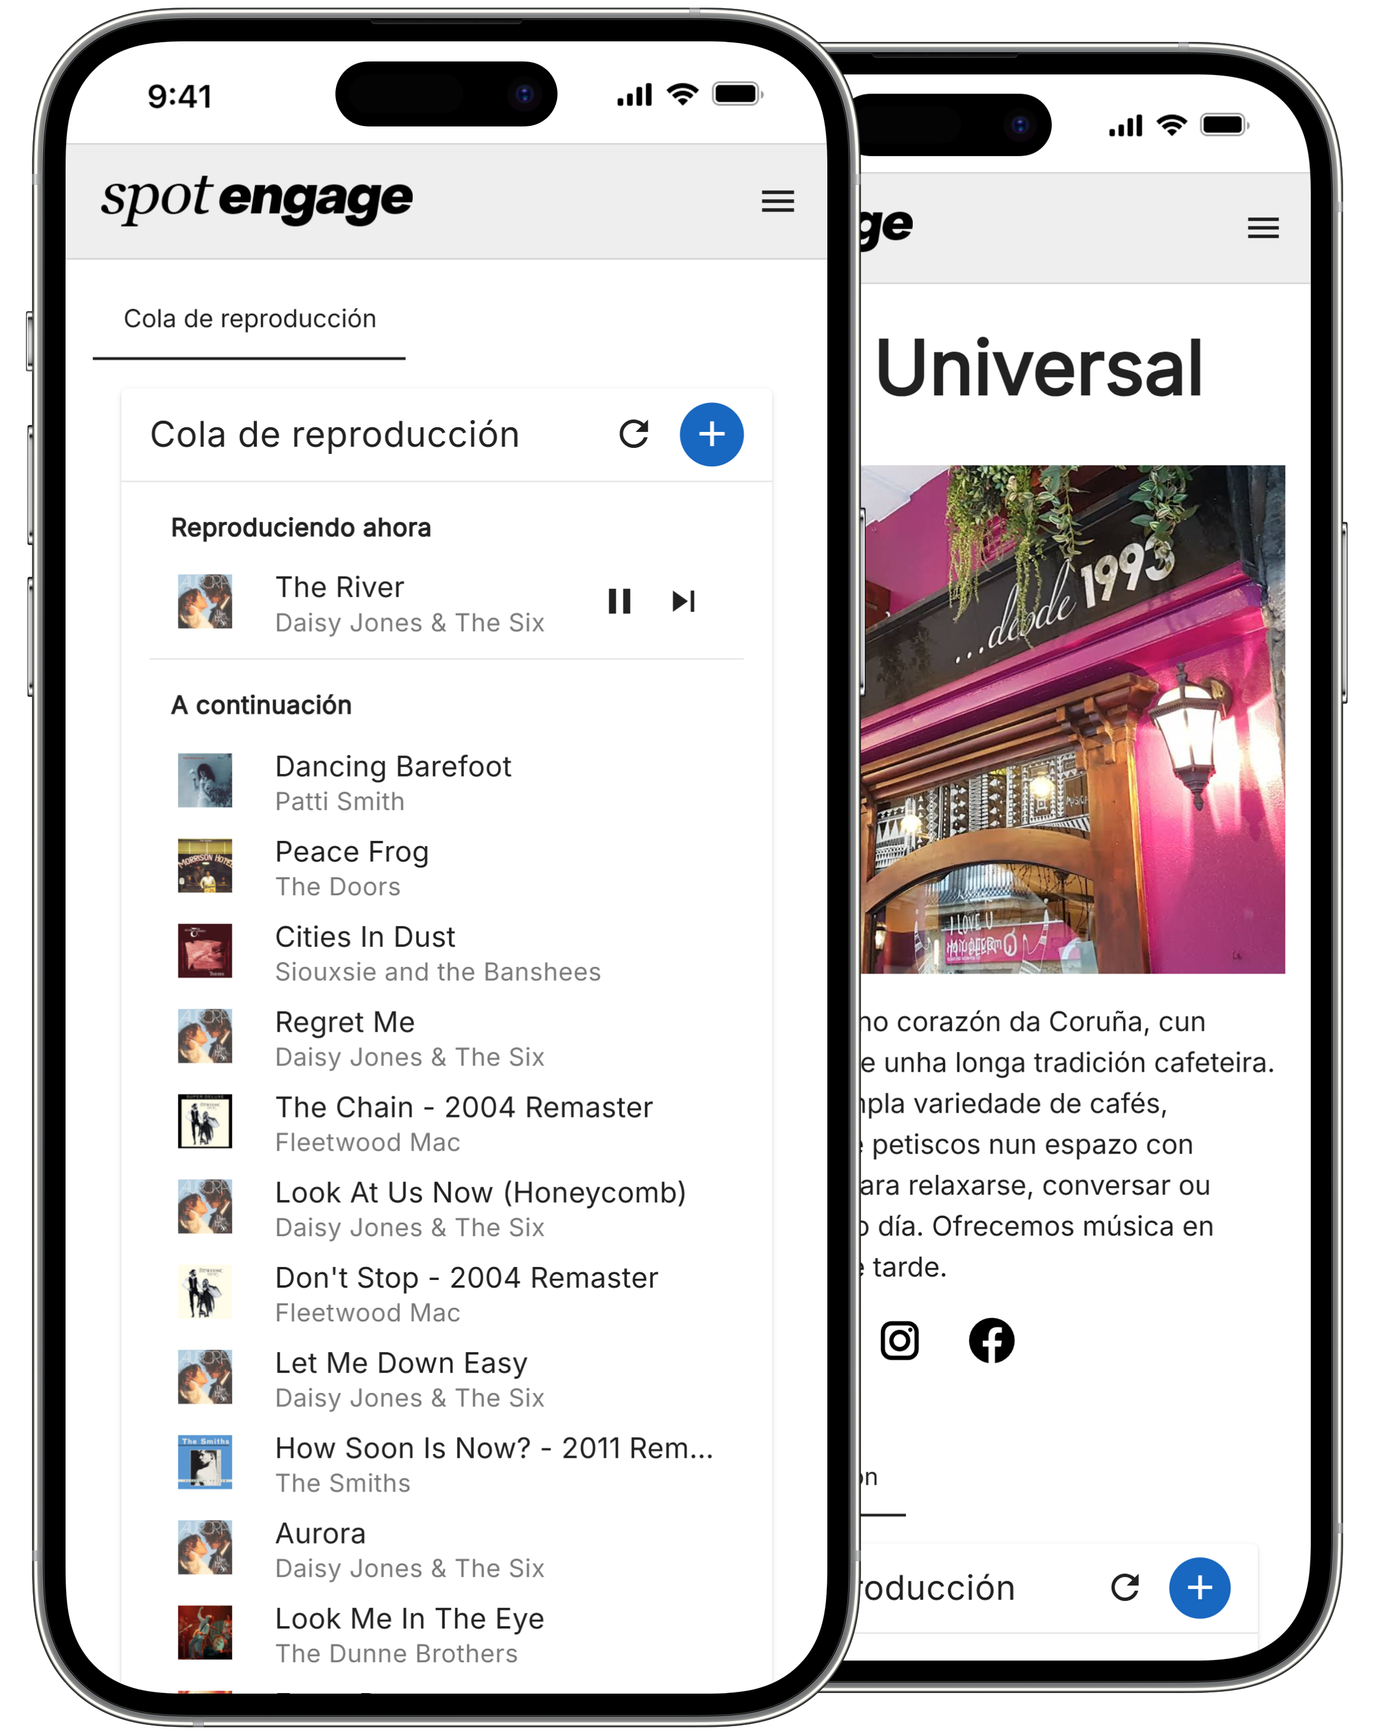
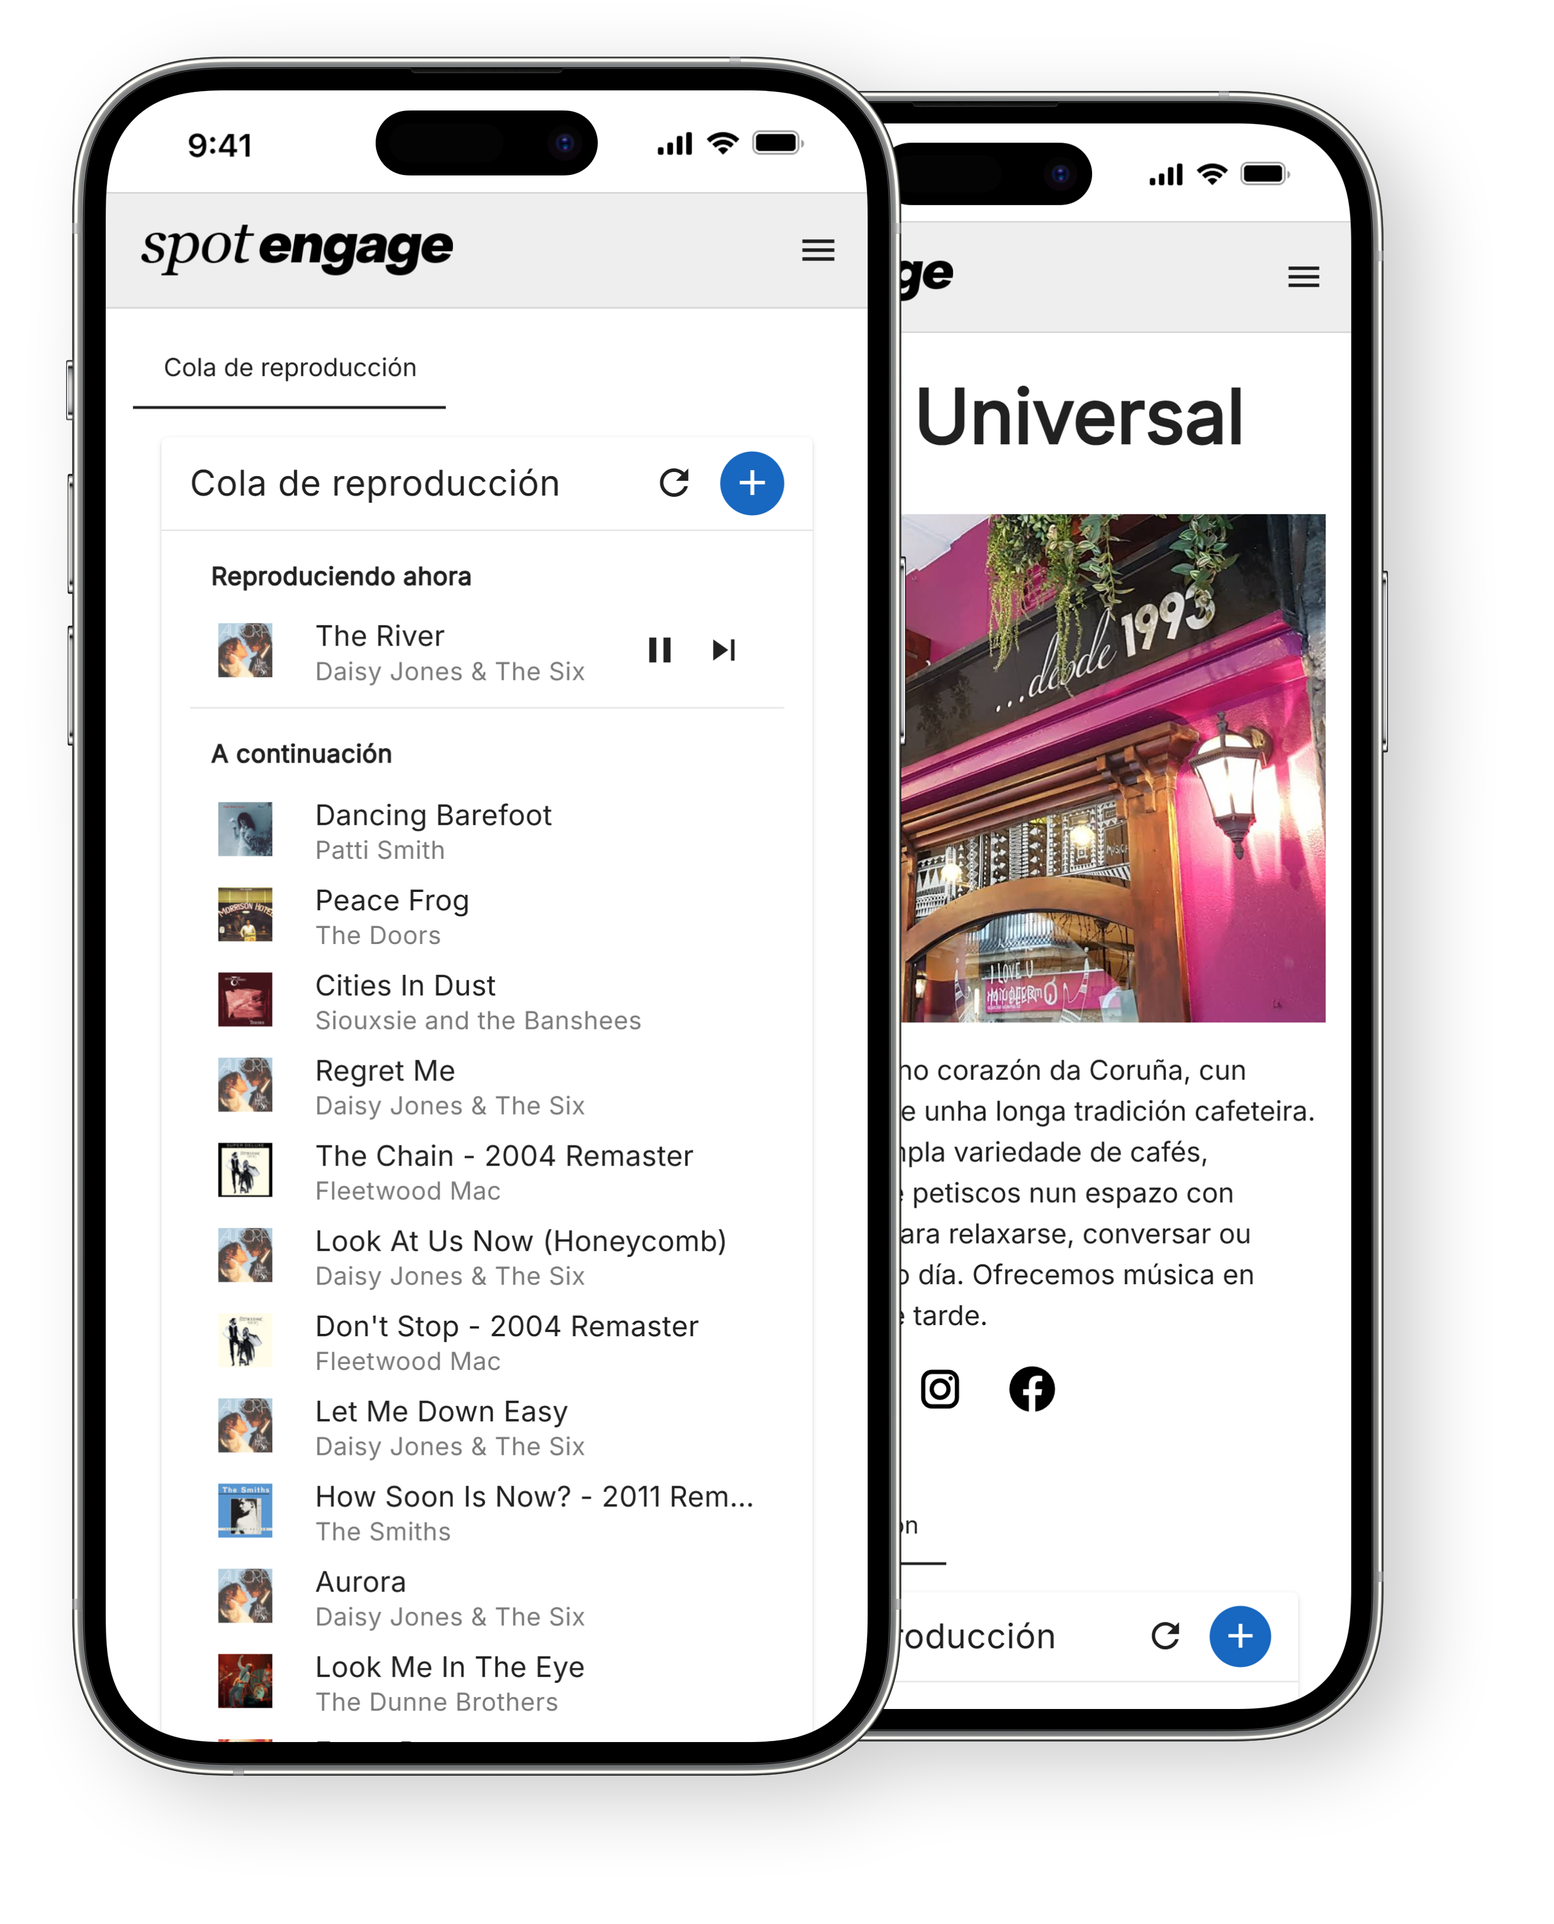
Modified appearance

diff --git a/pages/venues.vue b/pages/venues.vue
@@ -1,25 +1,31 @@
 <template>
   <div>
-    <div>
+    <div class="gradient-section">
       <v-container>
         <v-row align="center" class="my-5">
-          <v-col cols="12" sm="8">
-            <h2>{{ $t("venues.title1") }}</h2>
+          <v-col cols="12" md="6">
+            <h1>{{ $t("venues.title1") }}</h1>
+            <br />
             <h3 class="font-weight-regular">
               {{ $t("venues.description1", { appName: $t("appName") }) }}
             </h3>
           </v-col>
-          <v-col cols="12" sm="4">
+          <v-col cols="12" md="6">
             <v-img src="/images/iphone-mockup.png" alt="Phone Mockup" />
           </v-col>
         </v-row>
       </v-container>
     </div>
-    <div class="dark-section">
+    <div class="dark-section dark-gradient-section">
       <v-container>
+        <v-row class="text-center mt-5">
+          <v-col>
+            <h1>{{ $t("venues.title2") }}</h1>
+          </v-col>
+        </v-row>
         <v-row align="center" class="my-5">
-          <v-col cols="12" sm="7">
-            <v-carousel hide-delimiter-background>
+          <v-col cols="12" md="7">
+            <v-carousel hide-delimiter-background height="400">
               <v-carousel-item
                 v-for="(item, i) in items"
                 :key="i"
@@ -38,9 +44,7 @@
               </v-carousel-item>
             </v-carousel>
           </v-col>
-          <v-col cols="12" sm="5">
-            <h2>{{ $t("venues.title2") }}</h2>
-            <br />
+          <v-col cols="12" md="5">
             <h3 class="font-weight-regular">
               {{ $t("venues.description2", { appName: $t("appName") }) }}
             </h3>
@@ -56,7 +60,8 @@
       <v-container>
         <v-row class="text-center my-5">
           <v-col>
-            <h2>{{ $t("venues.title3") }}</h2>
+            <h1>{{ $t("venues.title3") }}</h1>
+            <br />
             <h3 class="font-weight-regular">
               {{ $t("venues.description3") }}
             </h3>
@@ -68,16 +73,34 @@
             />
             <v-row class="mt-8">
               <v-col>
-                <v-icon :size="80" class="mb-2">campaign</v-icon>
-                <h4 class="font-weight-regular">{{ $t("venues.feature1") }}</h4>
+                <v-card variant="outlined">
+                  <v-container>
+                    <v-icon :size="50" class="mb-4">
+                      <svg xmlns="http://www.w3.org/2000/svg" fill="none" viewBox="0 0 256 256" id="Export-Duotone--Streamline-Phosphor"><desc>Export Duotone Streamline Icon: https://streamlinehq.com</desc><g id="export-duotone"><path id="Vector" fill="#c4c4c3" d="M224.4894 108.7059v135.0852H31.5106V108.7059h192.9788Z" stroke-width="1"></path><path id="Vector_2" fill="#000000" d="M234.1383 118.3549v115.7872c0 5.1176 -2.0335 10.0265 -5.6518 13.646 -3.6196 3.6184 -8.5285 5.6519 -13.6461 5.6519H41.1596c-5.1182 0 -10.0266 -2.0335 -13.6457 -5.6519 -3.6191 -3.6195 -5.6522 -8.5284 -5.6522 -13.646V118.3549c0 -5.1176 2.0331 -10.0265 5.6522 -13.646 3.6191 -3.6188 8.5275 -5.6519 13.6457 -5.6519h28.9468c2.559 0 5.0133 1.0166 6.8229 2.8262 1.8094 1.8094 2.826 4.2633 2.826 6.8227s-1.0166 5.0139 -2.826 6.823c-1.8096 1.8092 -4.2639 2.826 -6.8229 2.826H41.1596v115.7872h173.6808V118.3549h-28.9468c-2.5594 0 -5.0138 -1.0168 -6.823 -2.826s-2.8259 -4.2636 -2.8259 -6.823 1.0168 -5.0133 2.8259 -6.8227c1.8092 -1.8096 4.2637 -2.8262 6.823 -2.8262h28.9469c5.1175 0 10.0264 2.0331 13.646 5.6519 3.6183 3.6195 5.6518 8.5284 5.6518 13.646ZM86.5819 67.2879l31.7692 -31.7812v111.795c0 2.5594 1.0167 5.0138 2.8259 6.823s4.2636 2.8259 6.823 2.8259 5.0138 -1.0167 6.823 -2.8259 2.8259 -4.2636 2.8259 -6.823V35.5067l31.7692 31.7812c1.8103 1.8105 4.266 2.8277 6.8266 2.8277s5.0162 -1.0172 6.8266 -2.8277c1.8104 -1.8105 2.8271 -4.2662 2.8271 -6.8267s-1.0167 -5.0161 -2.8271 -6.8266L134.8266 5.3899c-0.8961 -0.8971 -1.9599 -1.6088 -3.1311 -2.0944 -1.1723 -0.4856 -2.4279 -0.7355 -3.6955 -0.7355 -1.2676 0 -2.5232 0.2499 -3.6955 0.7355 -1.1712 0.4856 -2.235 1.1973 -3.1311 2.0944L72.9287 53.6346c-1.8105 1.8105 -2.8276 4.2662 -2.8276 6.8266s1.0171 5.0162 2.8276 6.8267c1.8105 1.8105 4.2661 2.8277 6.8266 2.8277s5.0161 -1.0172 6.8266 -2.8277Z" stroke-width="1"></path></g></svg>
+                    </v-icon>
+                    <h4 class="font-weight-regular">{{ $t("venues.feature1") }}</h4>
+                  </v-container>
+                </v-card>
               </v-col>
               <v-col>
-                <v-icon :size="80" class="mb-2">playlist_add</v-icon>
-                <h4 class="font-weight-regular">{{ $t("venues.feature2") }}</h4>
+                <v-card variant="outlined">
+                  <v-container>
+                    <v-icon :size="50" class="mb-4">
+                      <svg xmlns="http://www.w3.org/2000/svg" fill="none" viewBox="0 0 256 256" id="Playlist-Duotone--Streamline-Phosphor"><desc>Playlist Duotone Streamline Icon: https://streamlinehq.com</desc><g id="playlist-duotone"><path id="Vector" fill="#c4c4c3" d="M200 192c0 4.747 -1.408 9.387 -4.045 13.334 -2.637 3.946 -6.385 7.023 -10.771 8.839 -4.385 1.817 -9.211 2.292 -13.866 1.366 -4.656 -0.926 -8.932 -3.212 -12.289 -6.568 -3.356 -3.357 -5.642 -7.633 -6.568 -12.289 -0.926 -4.655 -0.451 -9.481 1.366 -13.866 1.816 -4.386 4.893 -8.134 8.839 -10.771C166.613 169.408 171.253 168 176 168c6.365 0 12.47 2.529 16.971 7.029C197.471 179.53 200 185.635 200 192Z" stroke-width="1"></path><path id="Vector_2" fill="#000000" d="M32 64c0 -2.1217 0.8429 -4.1566 2.3431 -5.6569C35.8434 56.8429 37.8783 56 40 56h176c2.122 0 4.157 0.8429 5.657 2.3431C223.157 59.8434 224 61.8783 224 64s-0.843 4.1566 -2.343 5.6569C220.157 71.1571 218.122 72 216 72H40c-2.1217 0 -4.1566 -0.8429 -5.6569 -2.3431C32.8429 68.1566 32 66.1217 32 64Zm8 72h120c2.122 0 4.157 -0.843 5.657 -2.343S168 130.122 168 128s-0.843 -4.157 -2.343 -5.657S162.122 120 160 120H40c-2.1217 0 -4.1566 0.843 -5.6569 2.343C32.8429 123.843 32 125.878 32 128s0.8429 4.157 2.3431 5.657C35.8434 135.157 37.8783 136 40 136Zm72 48H40c-2.1217 0 -4.1566 0.843 -5.6569 2.343C32.8429 187.843 32 189.878 32 192s0.8429 4.157 2.3431 5.657C35.8434 199.157 37.8783 200 40 200h72c2.122 0 4.157 -0.843 5.657 -2.343S120 194.122 120 192s-0.843 -4.157 -2.343 -5.657S114.122 184 112 184Zm135.66 -57.7c-0.302 1.01 -0.801 1.951 -1.468 2.768 -0.666 0.816 -1.488 1.493 -2.417 1.991 -0.93 0.499 -1.948 0.808 -2.998 0.911 -1.049 0.103 -2.109 -0.002 -3.117 -0.31L208 122.75V192c0.011 7.059 -2.308 13.924 -6.598 19.529 -4.289 5.606 -10.31 9.639 -17.126 11.472 -6.817 1.834 -14.048 1.366 -20.571 -1.331 -6.523 -2.697 -11.974 -7.472 -15.505 -13.583 -3.532 -6.112 -4.947 -13.219 -4.026 -20.217 0.921 -6.999 4.127 -13.497 9.119 -18.487 4.993 -4.99 11.493 -8.192 18.492 -9.11 6.999 -0.917 14.105 0.502 20.215 4.037V112c0 -1.247 0.292 -2.477 0.852 -3.591 0.56 -1.114 1.373 -2.082 2.374 -2.826 1.001 -0.744 2.161 -1.244 3.39 -1.46 1.228 -0.216 2.49 -0.142 3.684 0.217l40 12c2.031 0.61 3.737 2.003 4.742 3.87 1.005 1.868 1.227 4.058 0.618 6.09ZM192 192c0 -3.165 -0.938 -6.258 -2.696 -8.889 -1.759 -2.631 -4.257 -4.682 -7.181 -5.893 -2.924 -1.211 -6.141 -1.528 -9.244 -0.911 -3.104 0.618 -5.955 2.142 -8.193 4.379 -2.237 2.238 -3.761 5.089 -4.379 8.193 -0.617 3.103 -0.3 6.32 0.911 9.244 1.211 2.924 3.262 5.422 5.893 7.181 2.631 1.758 5.724 2.696 8.889 2.696 4.243 0 8.313 -1.686 11.314 -4.686 3 -3.001 4.686 -7.071 4.686 -11.314Z" stroke-width="1"></path></g></svg>
+                    </v-icon>
+                    <h4 class="font-weight-regular">{{ $t("venues.feature2") }}</h4>
+                  </v-container>
+                </v-card>
               </v-col>
               <v-col>
-                <v-icon :size="80" class="mb-2">settings</v-icon>
-                <h4 class="font-weight-regular">{{ $t("venues.feature3") }}</h4>
+                <v-card variant="outlined">
+                  <v-container>
+                    <v-icon :size="50" class="mb-4">
+                      <svg xmlns="http://www.w3.org/2000/svg" fill="none" viewBox="0 0 256 256" id="Gear-Duotone--Streamline-Phosphor"><desc>Gear Duotone Streamline Icon: https://streamlinehq.com</desc><g id="gear-duotone"><path id="Vector" fill="#c4c4c3" d="m223.7017 122.2048 20.1124 -25.1704c-2.7124 -10.1975 -6.772 -19.9882 -12.0698 -29.1138l-32.0025 -3.5958c-2.5566 -2.8803 -5.2822 -5.6059 -8.1624 -8.1624l-3.5958 -32.0144c-9.1356 -5.2663 -18.9293 -9.2968 -29.1258 -11.986l-25.1704 20.1004c-3.8487 -0.2277 -7.707 -0.2277 -11.5545 0L96.9625 12.15C86.7979 14.8708 77.04 18.9295 67.9444 24.2199l-3.5957 32.0024c-2.8804 2.5565 -5.606 5.2821 -8.1625 8.1624l-32.0144 3.5958c-5.2662 9.1356 -9.2968 18.9296 -11.9859 29.1258l20.1004 25.1705c-0.2277 3.8486 -0.2277 7.7057 0 11.5544l-20.1124 25.1704c2.7128 10.1977 6.7717 19.9878 12.0698 29.1139l32.0025 3.5957c2.5564 2.8803 5.282 5.6059 8.1624 8.1625l3.5958 32.0144c9.1355 5.2666 18.9297 9.2963 29.1259 11.9859l25.1704 -20.1004c3.8475 0.2277 7.7058 0.2277 11.5545 0l25.1704 20.1124c10.1977 -2.7124 19.9878 -6.772 29.1138 -12.0698l3.5958 -32.0025c2.8802 -2.5566 5.6058 -5.2822 8.1624 -8.1624l32.0145 -3.5958c5.2666 -9.1356 9.2963 -18.9293 11.9859 -29.1258l-20.1004 -25.1704c0.1954 -3.8499 0.1642 -7.7082 -0.0959 -11.5545Zm-95.7196 53.721c-9.4821 0 -18.752 -2.8119 -26.6363 -8.0797 -7.8843 -5.2679 -14.0293 -12.7567 -17.6581 -21.5172 -3.6287 -8.7605 -4.5781 -18.3996 -2.7282 -27.7007 1.8499 -9.2998 6.4161 -17.8422 13.1211 -24.5475 6.7054 -6.705 15.2478 -11.2712 24.5477 -13.1211 9.301 -1.8499 18.9401 -0.9005 27.7006 2.7282 8.7606 3.6288 16.2482 9.7738 21.5172 17.6579 5.2678 7.8844 8.0797 17.1543 8.0797 26.6364 0 12.7158 -5.0509 24.9103 -14.0427 33.901 -8.9907 8.9918 -21.1851 14.0427 -33.901 14.0427Z" stroke-width="1"></path><path id="Vector_2" fill="#000000" d="M127.9821 70.4496c-11.3795 0 -22.5024 3.3743 -31.9629 9.696 -9.4617 6.3218 -16.8357 15.3067 -21.1902 25.8195 -4.3546 10.5129 -5.4938 22.0805 -3.2739 33.2406 2.2199 11.1601 7.6993 21.4117 15.7453 29.4578 8.0464 8.0462 18.298 13.5261 29.4581 15.7459 11.1601 2.2198 22.7277 1.08 33.2405 -3.2745s19.4976 -11.7283 25.8201 -21.19c6.3214 -9.4605 9.6954 -20.5834 9.6954 -31.9628 -0.0155 -15.2533 -6.0828 -29.8786 -16.869 -40.6641 -10.7849 -10.786 -25.4101 -16.8525 -40.6634 -16.8684Zm0 95.8874c-7.5859 0 -15.0016 -2.2497 -21.3086 -6.464 -6.3082 -4.2142 -11.2236 -10.2048 -14.1269 -17.213 -2.903 -7.0081 -3.6625 -14.7199 -2.1826 -22.1607 1.48 -7.4397 5.1326 -14.2741 10.4975 -19.6378 5.3637 -5.3649 12.1981 -9.0175 19.6378 -10.4974 7.4396 -1.4799 15.1526 -0.7203 22.1608 2.1826 7.0081 2.9032 12.9987 7.8186 17.2129 14.1268 4.2143 6.307 6.4641 13.7227 6.4641 21.3086 0 10.1724 -4.0405 19.9278 -11.2345 27.1205 -7.1927 7.194 -16.9481 11.2344 -27.1205 11.2344Zm105.4762 -35.766c0.0479 -1.7259 0.0479 -3.4519 0 -5.1779l17.883 -22.3418c0.9373 -1.1734 1.5869 -2.5494 1.895 -4.02 0.308 -1.4695 0.266 -2.9905 -0.1211 -4.442 -2.9366 -11.0181 -7.3222 -21.598 -13.0407 -31.4631 -0.7491 -1.2906 -1.7895 -2.3886 -3.0384 -3.2064 -1.249 -0.8176 -2.6705 -1.3327 -4.1531 -1.5041l-28.4307 -3.1643c-1.183 -1.2465 -2.3816 -2.4451 -3.5958 -3.5957l-3.356 -28.5026c-0.1726 -1.4836 -0.6892 -2.9066 -1.5091 -4.1551 -0.8198 -1.2486 -1.9201 -2.2884 -3.2134 -3.0364 -9.8644 -5.7143 -20.4444 -10.0916 -31.4631 -13.0168 -1.4515 -0.3876 -2.9725 -0.4289 -4.4419 -0.1209 -1.4707 0.3082 -2.8467 0.9572 -4.0201 1.8949L130.571 22.5059h-5.1779L103.0514 4.6588c-1.1735 -0.9376 -2.5495 -1.5867 -4.0201 -1.8948 -1.4695 -0.3081 -2.9917 -0.2667 -4.442 0.1209 -11.0181 2.9369 -21.5981 7.3221 -31.4631 13.0407 -1.2907 0.7495 -2.3887 1.7899 -3.2063 3.0383 -0.8178 1.2486 -1.3329 2.6707 -1.5042 4.1533l-3.1642 28.4785c-1.2466 1.1907 -2.4452 2.3893 -3.5958 3.5958l-28.5026 3.2722c-1.4837 0.1726 -2.9065 0.6895 -4.1551 1.5094 -1.2486 0.8199 -2.2884 1.9201 -3.0364 3.213 -5.7132 9.8665 -10.0942 20.4461 -13.0287 31.4631 -0.3861 1.4515 -0.4255 2.9737 -0.1153 4.4444 0.3102 1.4695 0.9614 2.8454 1.9012 4.0177l17.7871 22.2818v5.1779l-17.847 22.3418c-0.9377 1.1734 -1.5869 2.5494 -1.8949 4.0201 -0.3082 1.4694 -0.2667 2.9917 0.1209 4.442 2.9368 11.0186 7.322 21.5974 13.0407 31.463 0.7494 1.2909 1.7898 2.3888 3.0383 3.2063 1.2485 0.8174 2.6706 1.3328 4.1533 1.5042l28.4306 3.1643c1.1906 1.2465 2.3892 2.4451 3.5958 3.5958l3.3201 28.5025c0.1726 1.4839 0.6894 2.9066 1.5094 4.1555 0.8198 1.2478 1.9201 2.2881 3.2131 3.0361 9.8663 5.7137 20.446 10.0945 31.463 13.0287 1.4515 0.3859 2.9737 0.4255 4.4432 0.115 1.4707 -0.3104 2.8467 -0.9612 4.0189 -1.9009l22.2818 -17.7872c1.726 0.048 3.452 0.048 5.1779 0l22.3418 17.8831c1.1734 0.9373 2.5494 1.5869 4.0201 1.8949 1.4695 0.3081 2.9905 0.2661 4.442 -0.121 11.0198 -2.9318 21.5998 -7.3174 31.4631 -13.0407 1.2908 -0.7491 2.3888 -1.7895 3.2062 -3.0384 0.8174 -1.2478 1.3328 -2.6705 1.5042 -4.1532l3.1643 -28.4306c1.2466 -1.183 2.4451 -2.3816 3.5958 -3.5958l28.5025 -3.356c1.4839 -0.1726 2.9066 -0.6892 4.1556 -1.5091 1.2477 -0.8198 2.2881 -1.9201 3.036 -3.2134 5.7137 -9.8668 10.0945 -20.4456 13.0287 -31.4631 0.386 -1.4515 0.4255 -2.9737 0.1151 -4.4431 -0.3105 -1.4707 -0.9613 -2.8467 -1.901 -4.0189l-17.7871 -22.2819Zm-19.2974 -7.7908c0.2038 3.4651 0.2038 6.9386 0 10.4038 -0.1426 2.372 0.6005 4.7128 2.0856 6.5683l17.008 21.251c-1.9513 6.2027 -4.4504 12.2185 -7.4672 17.9789l-27.0882 3.0684c-2.3589 0.2625 -4.5367 1.3892 -6.1129 3.1643 -2.3072 2.5949 -4.7644 5.0521 -7.3593 7.3594 -1.7751 1.5761 -2.903 3.7539 -3.1643 6.1128l-3.0085 27.0642c-5.7592 3.0181 -11.7762 5.5171 -17.9789 7.4672l-21.263 -17.008c-1.702 -1.3592 -3.8151 -2.0987 -5.993 -2.0975h-0.5753c-3.4651 0.2037 -6.9386 0.2037 -10.4038 0 -2.3708 -0.1355 -4.7092 0.6065 -6.5683 2.0855l-21.3109 17.02c-6.2024 -1.9513 -12.219 -4.4503 -17.9789 -7.4672l-3.0684 -27.0523c-0.2619 -2.3588 -1.3895 -4.5366 -3.1643 -6.1128 -2.5949 -2.3073 -5.0522 -4.7644 -7.3594 -7.3593 -1.5758 -1.7752 -3.7539 -2.903 -6.1128 -3.1643l-27.0642 -3.0205c-3.0182 -5.7592 -5.5172 -11.7762 -7.4673 -17.9789l17.0081 -21.263c1.485 -1.8554 2.2283 -4.1963 2.0855 -6.5683 -0.2038 -3.4651 -0.2038 -6.9386 0 -10.4038 0.1428 -2.372 -0.6005 -4.7129 -2.0855 -6.5683l-17.0081 -21.299c1.9516 -6.2022 4.4505 -12.2189 7.4673 -17.9789l27.0522 -3.0684c2.3589 -0.2617 4.537 -1.3893 6.1128 -3.1643 2.3072 -2.5948 4.7645 -5.0521 7.3594 -7.3593 1.7819 -1.5768 2.9141 -3.7598 3.1762 -6.1248l3.0085 -27.0523c5.7593 -3.0181 11.7761 -5.5171 17.9789 -7.4672l21.263 17.008c1.8555 1.4852 4.1963 2.2285 6.5683 2.0856 3.4652 -0.2038 6.9387 -0.2038 10.4038 0 2.3708 0.1359 4.7093 -0.6065 6.5683 -2.0856l21.299 -17.008c6.2027 1.9517 12.2185 4.4505 17.9789 7.4672l3.0684 27.0523c0.2613 2.359 1.3892 4.5371 3.1643 6.1128 2.595 2.3072 5.0521 4.7645 7.3594 7.3594 1.5761 1.775 3.754 2.9025 6.1128 3.1642l27.0642 3.0085c3.0181 5.7594 5.5171 11.7761 7.4672 17.9789l-17.008 21.263c-1.4994 1.871 -2.2438 4.2359 -2.0855 6.6283h0.0359Z" stroke-width="1"></path></g></svg>
+                    </v-icon>
+                    <h4 class="font-weight-regular">{{ $t("venues.feature3") }}</h4>
+                  </v-container>
+                </v-card>
               </v-col>
             </v-row>
           </v-col>
@@ -86,14 +109,15 @@
     </div>
     <div>
       <v-container>
-        <v-row class="my-5">
-          <v-col cols="12" lg="6">
-            <h2>{{ $t("venues.title4") }}</h2>
+        <v-row class="text-center my-5">
+          <v-col cols="12">
+            <h1>{{ $t("venues.title4") }}</h1>
+            <br />
             <h3 class="font-weight-regular">
               {{ $t("venues.description4", { appName: $t("appName") }) }}
             </h3>
           </v-col>
-          <v-col cols="12" lg="6">
+          <v-col cols="12">
             <pricing-section />
           </v-col>
         </v-row>
@@ -103,7 +127,8 @@
       <v-container>
         <v-row class="text-center my-5">
           <v-col>
-            <h2>{{ $t("venues.actionTitle") }}</h2>
+            <h1>{{ $t("venues.actionTitle") }}</h1>
+            <br />
             <h3 class="font-weight-regular">
               {{ $t("venues.actionDescription", { appName: $t("appName") }) }}
             </h3>
@@ -176,5 +201,13 @@ export default {
 .dark-section {
   background: black;
   color: white;
+}
+
+.gradient-section {
+  background: radial-gradient(50% 50% at 75% 50%, #e8f2ff, #fff);
+}
+
+.dark-gradient-section {
+  background: radial-gradient(50% 25% at 50% 0%, #4959e6, #171717);
 }
 </style>

diff --git a/components/pricingSection.vue b/components/pricingSection.vue
@@ -1,7 +1,7 @@
 <template>
-  <v-row align="center">
-    <v-col cols="12" sm="6">
-      <v-card class="text-center">
+  <v-row justify="center" align="center">
+    <v-col cols="auto">
+      <v-card variant="outlined" class="text-center" min-width="300" max-width="400">
         <v-container class="pa-5">
           <v-row>
             <v-col>
@@ -36,8 +36,8 @@
         </v-container>
       </v-card>
     </v-col>
-    <v-col>
-      <v-card class="text-center">
+    <v-col cols="auto">
+      <v-card variant="outlined" class="text-center" min-width="300" max-width="400">
         <v-container class="pa-5">
           <v-row>
             <v-col>

diff --git a/assets/styles/main.scss b/assets/styles/main.scss
@@ -5,11 +5,13 @@
 body {
   font-family: Inter, sans-serif;
   font-size: 16px;
+  letter-spacing: -0.02em;
 }
 
 h1 {
   font-size: 44px;
   font-weight: 700;
+  line-height: normal;
 }
 
 h1.display {
@@ -18,13 +20,15 @@ h1.display {
 }
 
 h2 {
-  font-size: 32px;
+  font-size: 34px;
   font-weight: 700;
+  line-height: 1.5;
 }
 
 h3 {
   font-size: 24px;
   font-weight: 700;
+  line-height: 1.5;
 }
 
 /* Notifications */
@@ -68,4 +72,8 @@ h3 {
 .v-toolbar-items .v-btn {
   height: 30px !important;
   border-radius: 3px !important;
+}
+
+.v-card--variant-outlined {
+  border: 1px solid #e4e4e4 !important;
 }

diff --git a/pages/index.vue b/pages/index.vue
@@ -2,11 +2,7 @@
   <div class="main-container">
     <v-container class="pt-0">
       <div class="vinyl-wrapper">
-        <img
-          class="spinning vinyl-img"
-          src="/images/vinyl.png"
-          alt=""
-        />
+        <img class="spinning vinyl-img" src="/images/vinyl.png" alt="" >
       </div>
       <v-row class="text-center mt-8">
         <v-col>
